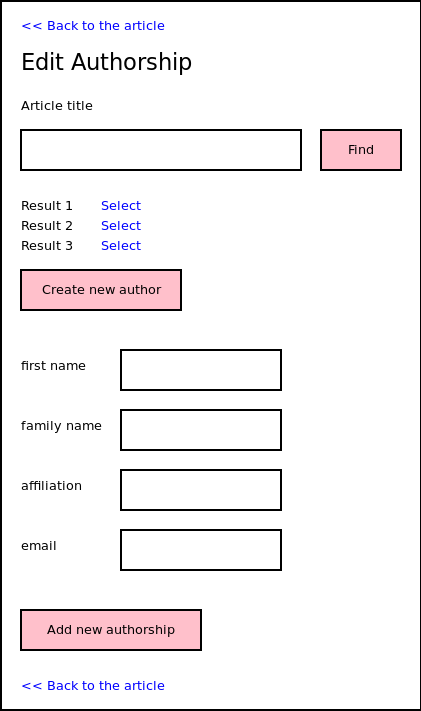
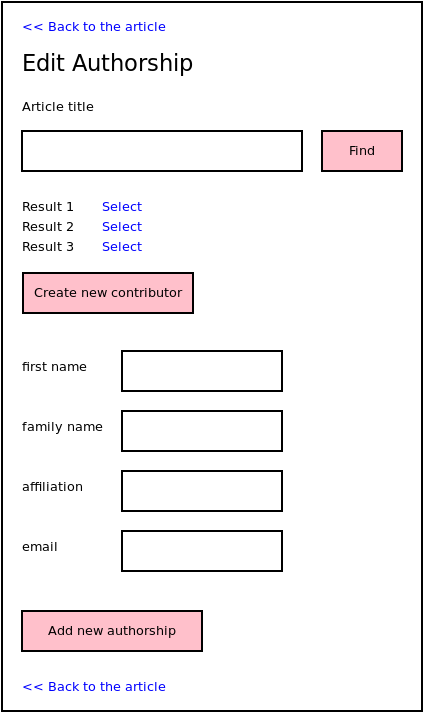
Revised contributor related pages

diff --git a/docs/pages/mockups.rst b/docs/pages/mockups.rst
@@ -78,16 +78,16 @@ For editing its title and its abstract (after clicking the ``Edit article data``
 Author data
 -----------
 
-The data of the authors are managed independently from articles:
+The data of the contributors (authors and editors) are managed independently from articles:
 
-.. image:: /pages/images/author_list.png
+.. image:: /pages/images/contributor_list.png
 
 * The filter expression is an arbitrary text. In simple cases the webpage apply substring search.
-* All authors should be unique in the database.
+* All contributors should be unique in the database.
 
-For create/edit an author:
+For create/edit a contributor:
 
-.. image:: /pages/images/edit_author.png
+.. image:: /pages/images/edit_contributor.png
 
 
 Authorship management
@@ -100,4 +100,26 @@ Authorship management is necessary, because in some cases (typically) the affili
 * The authorship is a binding between the articles and authors.
 * The fields on this page is uploaded automatically after the selection of the given author.
 * It results that, the author data can be edited independently for public pages, while the references to the same person (and legacy data) will do not break.
+
+Archive page
+------------
+
+.. image:: /pages/images/archive.png
+
+* The latest issue is at first.
+
+Editorial Board page
+--------------------
+
+* List of names and affiliations
+
+Edit the Editorial Board
+------------------------
+
+.. image:: /pages/images/editor_list.png
+
+* This page is available for the administrator.
+* The *Create contributor* button opens the *Edit contributor* page.
+
+.. TODO: Define pages for news and its editing for the home page!
 
